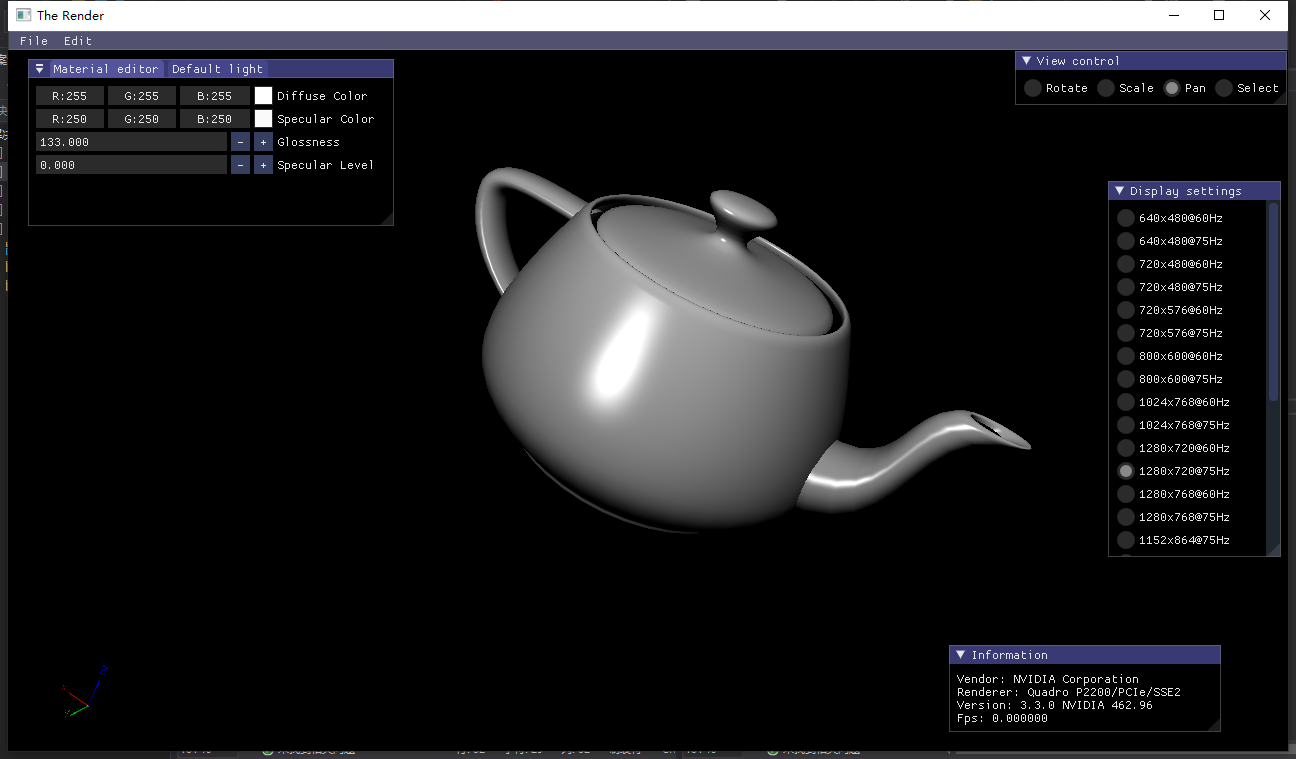
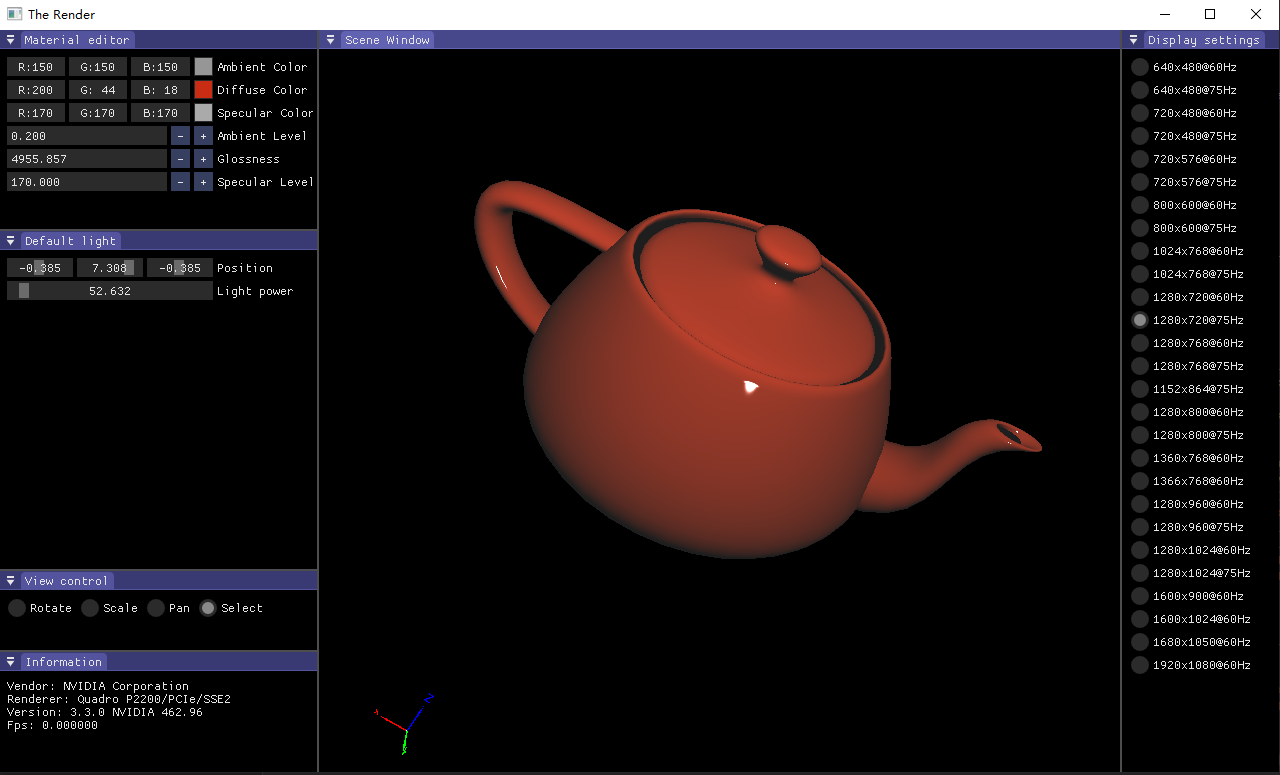
Optimize UI layer and update a README picture

Changed region(s): [[0.0, 0.0, 1.0, 1.0], [0.3438, 0.2121, 0.8125, 0.7273], [0.2812, 0.2727, 0.3125, 0.303]]

diff --git a/Renderer/Source/Application/Layer/UiLayer.cpp b/Renderer/Source/Application/Layer/UiLayer.cpp
@@ -43,7 +43,8 @@ void UiLayer::onAttach()
 	_width = Application::get().window()->width();
 	_height = Application::get().window()->height();
 
-	_buf = new char[_width * _height * 3];
+
+
 }
 
 void UiLayer::onDetach()
@@ -52,12 +53,6 @@ void UiLayer::onDetach()
 	ImGui_ImplGlfw_Shutdown();
 	// Cleanup
 	ImGui::DestroyContext();
-
-	if (_buf)
-	{
-		delete _buf;
-		_buf = nullptr;
-	}
 }
 
 void UiLayer::begin()
@@ -74,13 +69,50 @@ const float menuBarHeight = 200;
 void UiLayer::onUpdate(double deltaTime)
 {
 	UNUSED(deltaTime);
+	
+	
+#if 1
+	static bool opt_fullscreen = true;
+	static bool opt_padding = false;
+	static ImGuiDockNodeFlags dockspace_flags = ImGuiDockNodeFlags_None;
 
-	// glClear(GL_COLOR_BUFFER_BIT);
+	ImGuiWindowFlags window_flags = /*ImGuiWindowFlags_MenuBar | */ImGuiWindowFlags_NoDocking;
+	if (opt_fullscreen)
+	{
+		const ImGuiViewport* viewport = ImGui::GetMainViewport();
+		ImGui::SetNextWindowPos(viewport->WorkPos);
+		ImGui::SetNextWindowSize(viewport->WorkSize);
+		ImGui::SetNextWindowViewport(viewport->ID);
+		ImGui::PushStyleVar(ImGuiStyleVar_WindowRounding, 0.0f);
+		ImGui::PushStyleVar(ImGuiStyleVar_WindowBorderSize, 0.0f);
+		window_flags |= ImGuiWindowFlags_NoTitleBar | ImGuiWindowFlags_NoCollapse | ImGuiWindowFlags_NoResize | ImGuiWindowFlags_NoMove;
+		window_flags |= ImGuiWindowFlags_NoBringToFrontOnFocus | ImGuiWindowFlags_NoNavFocus;
+	}
+	else
+	{
+		dockspace_flags &= ~ImGuiDockNodeFlags_PassthruCentralNode;
+	}
 
+	if (dockspace_flags & ImGuiDockNodeFlags_PassthruCentralNode)
+		window_flags |= ImGuiWindowFlags_NoBackground;
 
+	bool* p_open;
+	if (!opt_padding)
+		ImGui::PushStyleVar(ImGuiStyleVar_WindowPadding, ImVec2(0.0f, 0.0f));
+	ImGui::Begin("Docking Space", p_open, window_flags);
+	if (!opt_padding)
+		ImGui::PopStyleVar();
+
+	if (opt_fullscreen)
+		ImGui::PopStyleVar(2);
+
+	ImGuiID dockspace_id = ImGui::GetID("Docking Space");
+	ImGui::DockSpace(dockspace_id, ImVec2(0.0f, 0.0f), dockspace_flags);
+
+	ImGui::End();
+#endif
 
 	// viewport
-#if 1
 	ImGui::Begin("Scene Window");
 
 	unsigned int& fbo = RenderGlobal::get()._fbo;
@@ -95,25 +127,25 @@ void UiLayer::onUpdate(double deltaTime)
 		ImVec2(ImGui::GetCursorScreenPos().x + _width, ImGui::GetCursorScreenPos().y + _height ), ImVec2(0, 1), ImVec2(1, 0));
 
 	ImGui::End();
-#endif
 
-	UNUSED(deltaTime);
+
 
 	// View mode
 	ViewmodeControl::draw();
+#if 1
 
 	DisplaySettings::draw();
 
-	MenuBar::draw();
+	//MenuBar::draw();
 
 	// Light position
 	{
-	    ImGui::Begin("Default light");
-	    glm::vec3& pos = Scene::get().defaultLight()->position();
-	    float& lightPower = Scene::get().defaultLight()->lightPower();
-	    ImGui::SliderFloat3("Position", glm::value_ptr(pos), -10.0f, 10.f);
-	    ImGui::SliderFloat("Light power", &lightPower, 0.f, 1000.f);
-	    ImGui::End();
+		ImGui::Begin("Default light");
+		glm::vec3& pos = Scene::get().defaultLight()->position();
+		float& lightPower = Scene::get().defaultLight()->lightPower();
+		ImGui::SliderFloat3("Position", glm::value_ptr(pos), -10.0f, 10.f);
+		ImGui::SliderFloat("Light power", &lightPower, 0.f, 1000.f);
+		ImGui::End();
 	}
 
 	// Material
@@ -139,6 +171,7 @@ void UiLayer::onUpdate(double deltaTime)
 		Renderer::releaseVersion(),
 		Application::get().fps());
 	ImGui::End();
+#endif 
 }
 
 void UiLayer::end()

diff --git a/Renderer/Source/stdafx.h b/Renderer/Source/stdafx.h
@@ -3,7 +3,7 @@
 #include "imgui.h"
 #include "Application/UI/imgui_impl_glfw.h"
 #include "Application/UI/imgui_impl_opengl3.h"
-
+#include "imgui_internal.h"
 
 // Spdlog
 #include "spdlog/spdlog.h"

diff --git a/Renderer/Source/Application/Layer/UiLayer.h b/Renderer/Source/Application/Layer/UiLayer.h
@@ -29,6 +29,5 @@ public:
 
 private:
 	GLFWwindow* _windowHandle;
-	char* _buf;
 	int _width, _height;
 };
